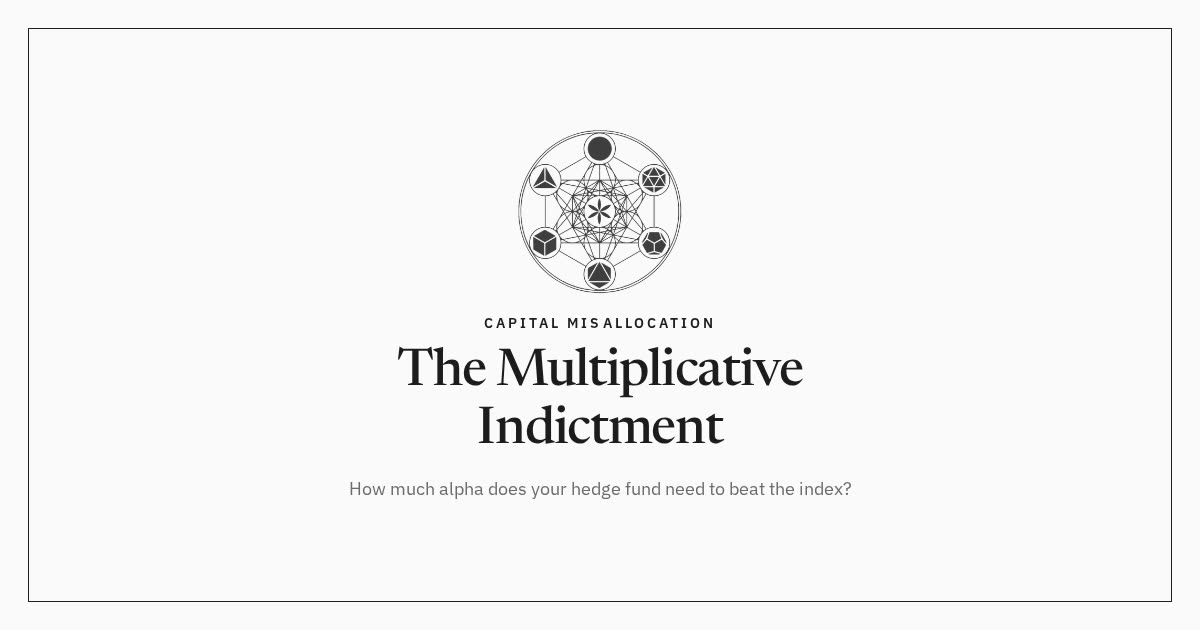
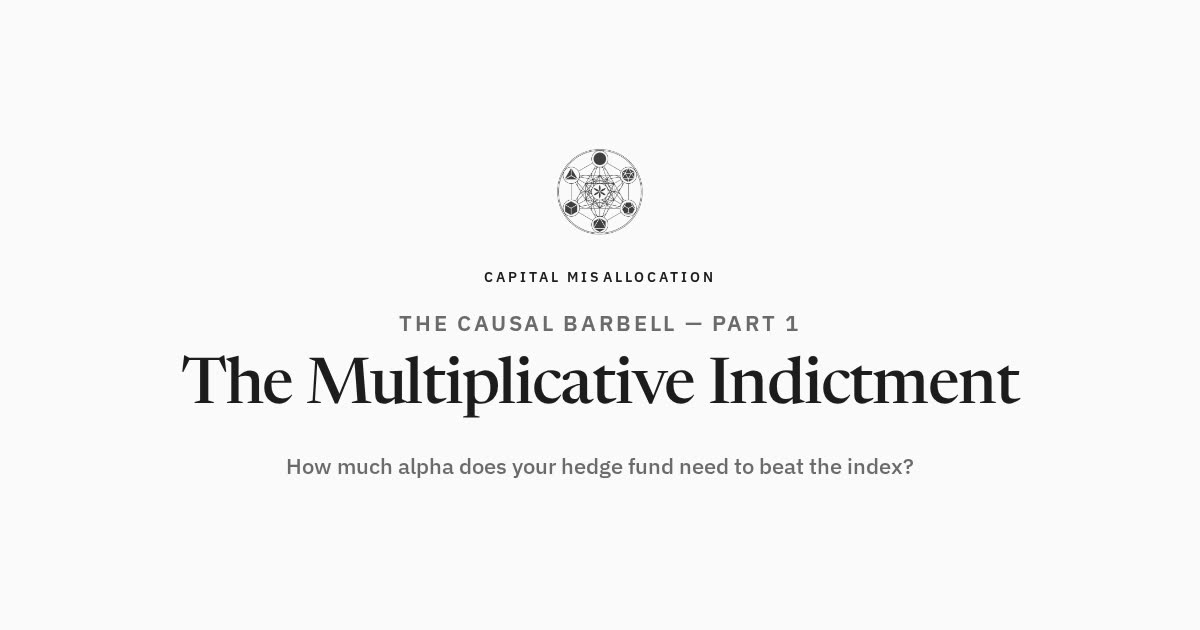
Retitle the share card and stop rounding gross return to 11%.
Series title is The Causal Barbell, Part 1. Gross return prints 10.5%.
Fee default stays 1.5 and the Sharpe screen stays 1.5, which is the 80%
false-positive rate. Industry moves to an appendix link.

Changed region(s): [[0.1542, 0.2111, 0.8633, 0.7841]]

diff --git a/src/components/app-shell.tsx b/src/components/app-shell.tsx
@@ -13,9 +13,10 @@ import { WealthTab } from "@/components/tabs/wealth-tab";
 import { Button } from "@/components/ui/button";
 import { cn, formatPct } from "@/lib/utils";
 import { useParams } from "@/store/use-params";
+import { PART_TITLE, SERIES_TITLE } from "@/lib/series";
 import type { TabId } from "@/lib/calc/types";
 
-const TABS: { id: TabId; label: string }[] = [
+const ESSAY_TABS: { id: TabId; label: string }[] = [
   { id: "fees", label: "Fee decomposition" },
   { id: "grid", label: "Sensitivity" },
   { id: "wealth", label: "Terminal wealth" },
@@ -23,8 +24,9 @@ const TABS: { id: TabId; label: string }[] = [
   { id: "history", label: "Shiller windows" },
   { id: "estimator", label: "Estimator" },
   { id: "reflexivity", label: "Reflexivity" },
-  { id: "industry", label: "Industry" },
 ];
+
+const TABS: { id: TabId; label: string }[] = [...ESSAY_TABS, { id: "industry", label: "Industry" }];
 
 const tabBtn =
   "min-h-12 px-2 py-3 text-center font-ui text-[15px] font-semibold leading-snug tracking-tight sm:text-sm transition-colors duration-[var(--motion-quick)] ease-[var(--ease-out)] focus-visible:outline-none focus-visible:ring-2 focus-visible:ring-navy/35 focus-visible:ring-offset-2";
@@ -39,7 +41,7 @@ export function AppShell({ urlTab }: { urlTab?: TabId }) {
   useEffect(() => {
     if (tab !== p.tab) p.setTab(tab);
     const label = TABS.find((t) => t.id === tab)?.label ?? "Calculator";
-    document.title = `${label} · The Multiplicative Indictment`;
+    document.title = `${label} · ${SERIES_TITLE}`;
   }, [tab]);
 
   function setTab(id: TabId) {
@@ -66,8 +68,11 @@ export function AppShell({ urlTab }: { urlTab?: TabId }) {
           <div className="mt-6 font-ui text-xs font-semibold tracking-mark text-navy uppercase">
             Capital Misallocation
           </div>
-          <h1 className="mt-3 font-display text-display font-medium tracking-[-0.025em] text-navy leading-[1.15]">
-            The Multiplicative Indictment
+          <p className="text-muted mt-3 font-ui text-sm font-medium tracking-kicker uppercase">
+            The Causal Barbell — Part 1
+          </p>
+          <h1 className="mt-2 font-display text-display font-medium tracking-[-0.025em] text-navy leading-[1.15]">
+            {PART_TITLE}
           </h1>
           <p className="text-muted mx-auto mt-4 max-w-md text-base leading-7">
             How much alpha does your hedge fund need to beat the index? You supply the assumptions. The
@@ -78,9 +83,9 @@ export function AppShell({ urlTab }: { urlTab?: TabId }) {
         <div
           role="tablist"
           aria-label="Calculator tabs"
-          className="mb-6 grid grid-cols-2 border-2 border-navy sm:grid-cols-4 xl:grid-cols-8"
+          className="mb-3 grid grid-cols-2 border-2 border-navy sm:grid-cols-4 xl:grid-cols-7"
         >
-          {TABS.map((t) => (
+          {ESSAY_TABS.map((t) => (
             <button
               key={t.id}
               type="button"
@@ -98,6 +103,18 @@ export function AppShell({ urlTab }: { urlTab?: TabId }) {
               {t.label}
             </button>
           ))}
+        </div>
+        <div className="mb-6 text-right">
+          <button
+            type="button"
+            onClick={() => setTab("industry")}
+            className={cn(
+              "font-ui text-sm font-semibold tracking-tight underline-offset-4 hover:underline",
+              tab === "industry" ? "text-navy" : "text-muted",
+            )}
+          >
+            Appendix · Industry float
+          </button>
         </div>
 
         <div className="mb-8">
@@ -182,7 +199,7 @@ export function AppShell({ urlTab }: { urlTab?: TabId }) {
             Nobody can attack assumptions that are yours.
           </p>
           <p className="text-subtle mt-3 font-ui text-sm tracking-footer">
-            Capital Misallocation · Monte Carlo seed 20260910 · Shiller real total returns, 1871–2023
+            Capital Misallocation — The Causal Barbell, Part 1 · Monte Carlo seed 20260910 · Shiller real total returns, 1871–2023
           </p>
         </footer>
       </div>

diff --git a/src/routes/__root.tsx b/src/routes/__root.tsx
@@ -1,9 +1,10 @@
 import { createRootRoute, HeadContent, Outlet, Scripts } from "@tanstack/react-router";
 import { AuthProvider } from "@/lib/auth/provider";
 import { PreviewHostBridge } from "@/components/preview-host-bridge";
+import { SERIES_TITLE } from "@/lib/series";
 import appCss from "../styles.css?url";
 
-const APP_NAME = "The Multiplicative Indictment";
+const APP_NAME = SERIES_TITLE;
 
 export const Route = createRootRoute({
   head: () => ({
@@ -16,7 +17,7 @@ export const Route = createRootRoute({
         name: "description",
         content: "How much alpha does your hedge fund need to beat the index? Run the numbers.",
       },
-      { property: "og:title", content: "The Multiplicative Indictment — Calculator" },
+      { property: "og:title", content: SERIES_TITLE },
       {
         property: "og:description",
         content: "How much alpha does your hedge fund need to beat the index? Run the numbers.",

diff --git a/src/components/tabs/fee-tab.tsx b/src/components/tabs/fee-tab.tsx
@@ -229,8 +229,9 @@ export function FeeTab() {
         <Field label="Holding period" value={p.holdingPeriod} min={1} max={30} step={1} onChange={(v) => set("holdingPeriod", v)} format={(v) => `${v} yr`} />
         <p className="text-muted text-sm leading-relaxed">
           Weighted borrow {d.weightedBorrowBps.toFixed(0)} bps on {d.shortExposure.toFixed(2)}× short =
-          {" "}{formatPct(d.borrowCost, 2)} of NAV. Gross return {formatPct(d.grossReturn)} = net × beta +
-          alpha.
+          {" "}{formatPct(d.borrowCost, 2)} of NAV. Gross return {formatPct(d.grossReturn, 2)} ={" "}
+          {p.netExposure.toFixed(1)} × {formatPct(p.equityBeta, 1)} beta + {formatPct(p.grossAlpha, 1)} alpha.
+          No short rebate in that sum.
         </p>
       </aside>
     </div>

diff --git a/src/components/tabs/industry-tab.tsx b/src/components/tabs/industry-tab.tsx
@@ -52,7 +52,7 @@ export function IndustryTab() {
     <div className="grid gap-6 lg:grid-cols-[minmax(0,1fr)_20rem]">
       <section ref={rootRef} className="space-y-6">
         <TabHeader
-          kicker="Tab 8 · Industry float"
+          kicker="Appendix · not one of the essay's seven"
           text={`Price-insensitive capital is ${formatPct(s.passiveNow, 0)} of listed US equity, up from ${formatPct(s.firstRaw.passivePct, 0)} in 2012. Residual float shrank ${formatPct(leftoverDrop, 0)}. Form PF books are ${s.levNow.toFixed(1)}× levered.`}
           filename="industry-float.png"
           targetRef={rootRef}

diff --git a/src/components/tabs/estimator-tab.tsx b/src/components/tabs/estimator-tab.tsx
@@ -243,7 +243,8 @@ export function EstimatorTab() {
         />
         <p className="text-muted text-sm leading-relaxed">
           1,000 managers. True Sharpe drawn from N({p.trueSharpeM.toFixed(2)}, {p.trueSharpeS.toFixed(2)}). Monthly
-          returns from {distLabel(p.returnDist)}. Seed {MASTER_SEED}.
+          returns from {distLabel(p.returnDist)}. Default screen is 1.50 — at these priors that is an 80%
+          false-positive rate. A screen of 2.00 selects nobody. Seed {MASTER_SEED}.
         </p>
       </aside>
     </div>

diff --git a/src/lib/series.ts b/src/lib/series.ts
@@ -1,0 +1,2 @@
+export const SERIES_TITLE = "The Causal Barbell — Part 1: The Multiplicative Indictment";
+export const PART_TITLE = "The Multiplicative Indictment";

diff --git a/README.md b/README.md
@@ -1,4 +1,4 @@
-# The Multiplicative Indictment
+# The Causal Barbell — Part 1: The Multiplicative Indictment
 
 Interactive calculator for [Capital Misallocation](https://capitalmisallocation.com).  
 Live: **https://longshort.capitalmisallocation.com**
